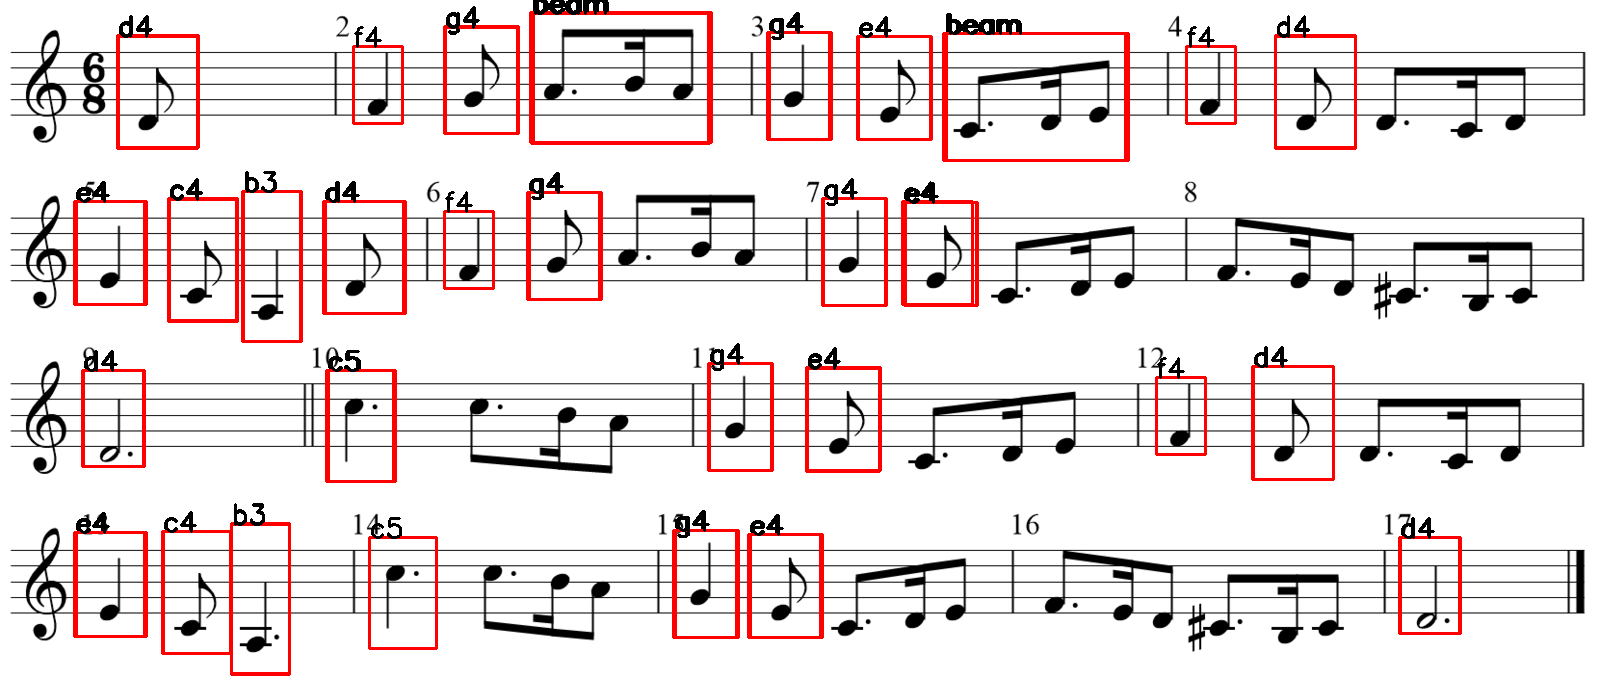
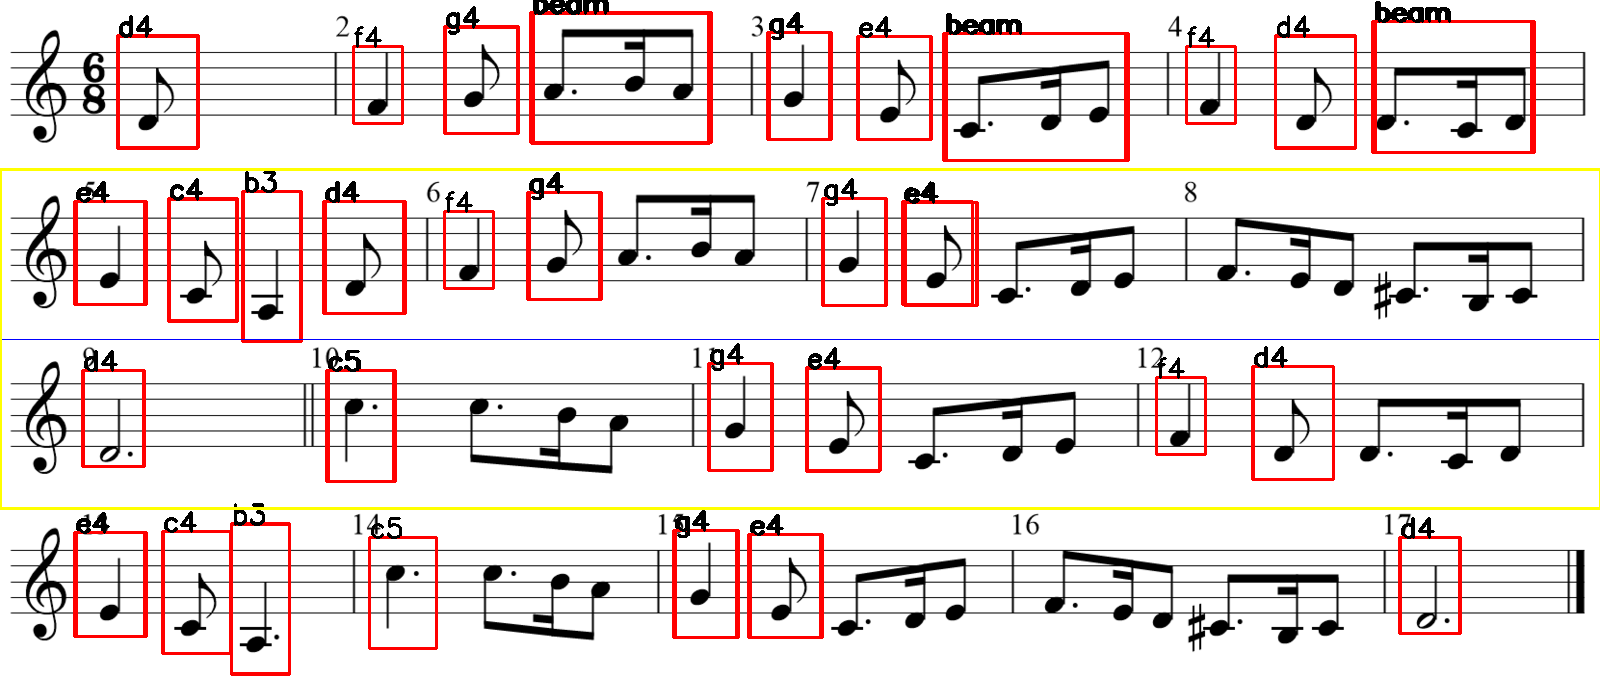
joseph's latest work

Changed region(s): [[0.0, 0.0, 1.0, 0.2788], [0.0, 0.7434, 1.0, 0.7743]]

diff --git a/multi.py b/multi.py
@@ -7,14 +7,27 @@ import cv2
 import sys
 import subprocess
 
+
 def open_file(path):
   cmd = {'linux':'eog', 'win32':'explorer', 'darwin':'open'}[sys.platform]
   subprocess.run([cmd, path])
+
+def sort_keyval(x):
+  if (x[1] <= row/4):
+    return row/4 + x[0]
+  elif (x[1] <= row/2):
+    return row/2 + x[0]
+  elif (x[1] <= 3*row/4):
+    return 3*row/4 + x[0]
+  else:
+    return row + x[0]
+
 
 # templates list
 note_files = [
     "template/beam_c4_2_d4_quarter_e4_1.png",
     "template/beam_a4_1half_b4_quarter_a4_1.png",
+    "template/beam_d4_75_c4_quarter_d4_half.png",
     "template/b3_1.png",
     "template/c4_half.png",
     "template/d4_3.png",
@@ -134,23 +147,35 @@ for t in note_files:
     # draw a bounding box around the detected result and display the image
     image = cv2.rectangle(image, (startX, startY), (endX, endY), (0, 0, 255), 2)
     cv2.putText(image, beam_check[0], (startX, startY), cv2.FONT_HERSHEY_SIMPLEX, 0.9, (0,0,0), 2)
-    note_locations[str((x,y))] = output
+    note_locations[(startX,startY)] = output
   # i = i + 1
 # note_locations = list(filter(None, temp))
 breakpoint()
 
-outputFile = open('notes.txt', "w")
+# outputFile = open('notes.txt', "w")
 
-keys = note_locations.keys()
+keys = list(note_locations.keys())
 
-for i in range(1, row, 1):
-  for j in range(1, col, 1):
-    curr = ('(' + str(j) + ', ' + str(i) + ')')
+keys = sorted(keys, key = sort_keyval)
 
-    if curr in keys:
-      print(curr)
-      print(note_locations[curr])
+print(keys)
 
+
+for i in range(0, len(keys), 1):
+  print(note_locations[keys[i]])
+
+# for i in range(1, row, 1):
+#   for j in range(1, col, 1):
+#     curr = ('(' + str(j) + ', ' + str(i) + ')')
+
+#     if curr in keys:
+#       print(curr)
+#       print(note_locations[curr])
+
+cv2.line(image, (0, int(row/4)) , (col, int(row/4)), (255, 0, 0))
+cv2.line(image, (0, int(row/2)) , (col, int(row/2)), (255, 0, 0))
+cv2.line(image, (0, int(3*row/4)) , (col, int(3*row/4)), (255, 0, 0))
+cv2.rectangle(image, (0, int(row/4)), (col, int(3*row/4)), (0, 255, 255), 2)
 cv2.imwrite("multi-result.png", image)
-open_file('multi-result.png')
-outputFile.close()
+# open_file('multi-result.png')
+# outputFile.close() 
